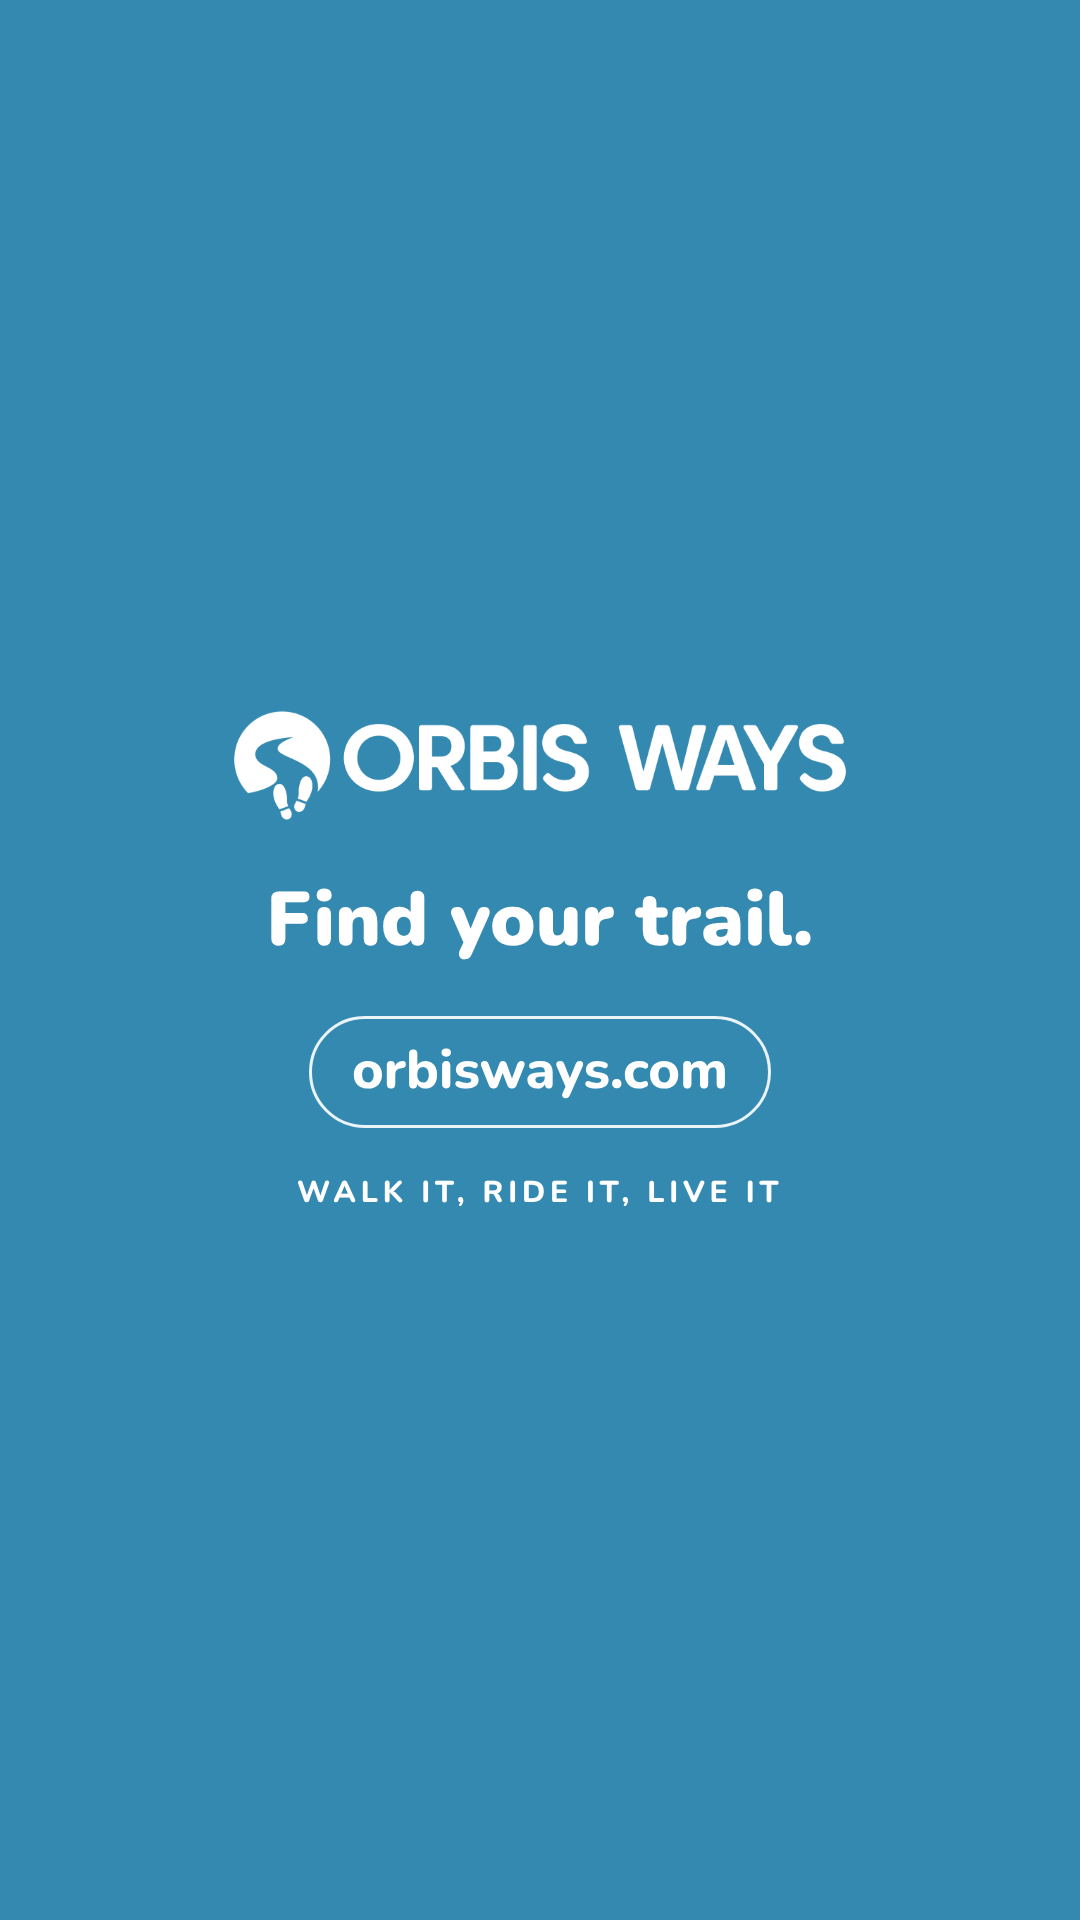
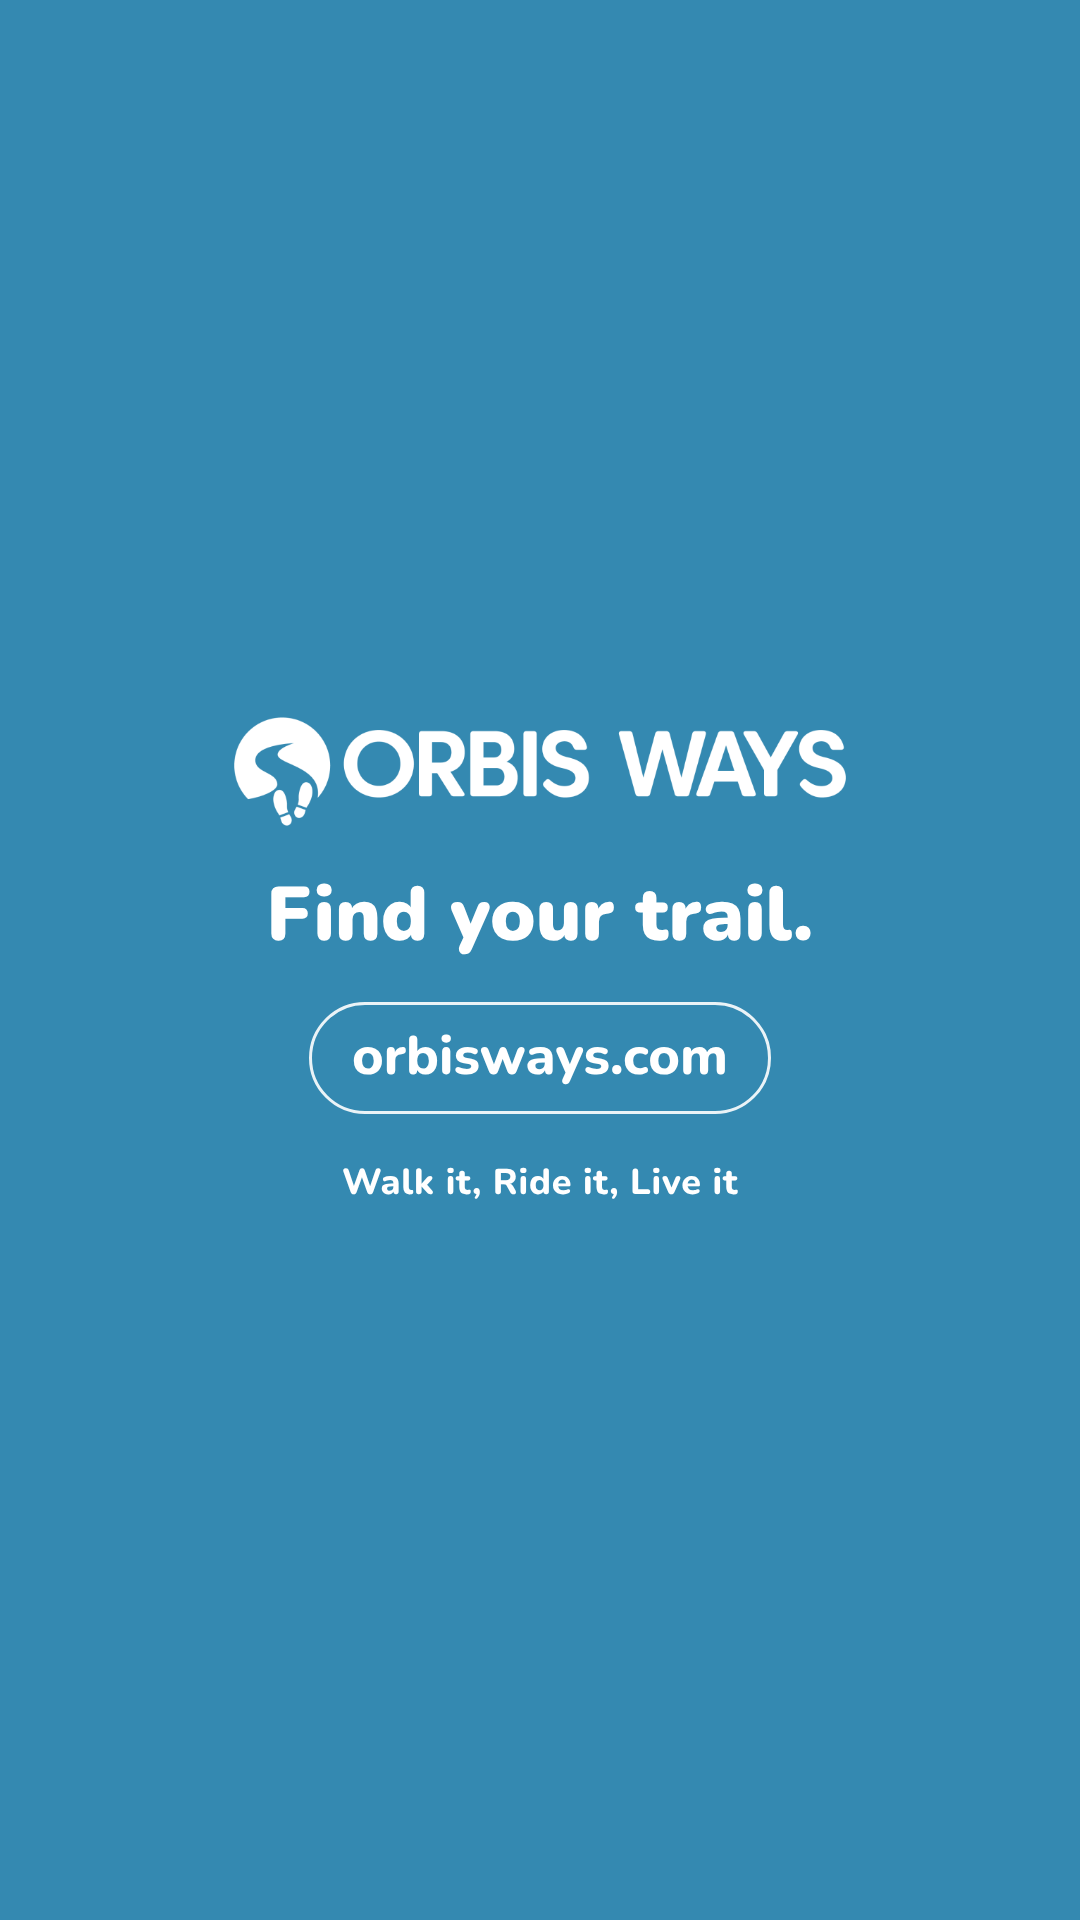
Fábrica de contenidos 24/7 (manual) y eslogan «Walk it, Ride it, Live it» en la cartela de cierre
Claude-Session: https://claude.ai/code/session_0152UrWpfmLuTG9vu2piWTuP

diff --git a/scripts/piezas/endcard.html b/scripts/piezas/endcard.html
@@ -3,9 +3,9 @@
 .end{position:absolute;inset:0;background:rgba(19,118,164,.86);display:flex;flex-direction:column;align-items:center;justify-content:center;gap:44px;color:#fff;text-align:center}
 .end img{width:620px}.claim{font-family:Head;font-weight:900;font-size:76px;max-width:900px;line-height:1.1;text-wrap:balance}
 .web{border:3px solid rgba(255,255,255,.9);border-radius:999px;padding:14px 40px 18px;font-family:Head;font-weight:800;font-size:54px}
-.line{font-family:Head;font-weight:800;font-size:30px;letter-spacing:.16em}</style></head>
+.line{font-family:Head;font-weight:800;font-size:36px;letter-spacing:.02em}</style></head>
 <body><div class="end"><img src="orbisways_logo_white.png" alt=""><div class="claim">Find your trail.</div>
-<div class="web">orbisways.com</div><div class="line">WALK IT, RIDE IT, LIVE IT</div></div>
+<div class="web">orbisways.com</div><div class="line">Walk it, Ride it, Live it</div></div>
 <script>
 // Claim por idioma: render.js still endcard.html … con estados [{"id":"endcard_9x16_es","claim":"Descubre el mundo a tu ritmo."}]
 try { const p = JSON.parse(decodeURIComponent(location.hash.slice(1)) || '{}'); if (p.claim) document.querySelector('.claim').textContent = p.claim; } catch (e) {}

diff --git a/docs/FABRICA.md b/docs/FABRICA.md
@@ -1,0 +1,50 @@
+# Fábrica de contenidos de Orbis Ways (24/7)
+
+Orden de Iván (15 oct 2026): «Quiero que esto sea una fábrica de contenidos que funcione 24/7 sin necesidad de aprobación ni rondas dos veces al día; que vaya trabajando continuamente y yo ya iré dando feedback sobre las piezas finales, pudiendo ajustar o descartar lo que considere». También: «ve generando las propuestas finales sin que te tenga que confirmar… piezas que funcionen, que se hagan virales, algunas más comerciales y otras más puramente informacionales, para convertir nuestros canales en la referencia del sector, ganando comunidad y engagement».
+
+Este documento es el manual de cada ciclo. Manda junto con `docs/PIEZAS_FEEDBACK.md` (reglas del feedback de Iván); si chocan, manda PIEZAS_FEEDBACK.
+
+## Qué cambia respecto a las rondas de antes
+
+- **No hay aprobación previa.** Toda pieza del calendario (salvo `descartada` y `publicada`) se lleva hasta el final: archivos terminados adjuntos en su entrada del calendario, reproducibles y descargables en la sala de Diseño del centro. Iván revisa las piezas finales y pide cambios o las descarta allí.
+- **No hay rondas fijas.** Un ciclo por hora, todos los días. Cada ciclo termina una o dos piezas y deja la cola lista para el siguiente.
+- La ronda «Indicaciones al momento» sigue aparte: aplica en el acto lo que Iván escribe en una pieza.
+
+## Centro de control
+
+- URL: https://claude.ai/artifact/SYE8rodqybJ3uKwcXw2PBX. Se lee y escribe solo con la herramienta ArtifactData (cada llamada con esa `url`). Assets (vídeos, PNG) con la herramienta Artifact (`asset: true`).
+- Calendario: colección `calendar` (esquema completo en el prompt de la ronda de calendario, copia en `centro-control/rondas/calendario.txt` del repo de control). Campos clave: lang, channel, date, time, market, format, title (en español), hook, keyword, seo, why, justification, ready_material, design, version, feedback, files, status.
+- Estado de la fábrica: documento `fabrica/estado` {lastRun, cola, hechasHoy, ultimaPieza, aviso}. Cada ciclo escribe `cycles/<STAMP>-fabrica` {ts, pata: "calendario", findings: 0, actions: 0, entries, updated, summary}.
+
+## Mezcla editorial (para ser la referencia del sector)
+
+Por idioma (EN para UK y EE. UU., ES para España y Latinoamérica, DE para Alemania, Austria y Suiza):
+- **60 % informacional y útil:** guías de etapa, datos verificados, cómo prepararse, qué llevar, cuándo ir, comparativas de rutas, errores típicos, mapas y desniveles. Son las que se guardan y se comparten.
+- **25 % virales y emocionales:** formatos que están funcionando ahora en ese idioma (tendencia con 2+ ejemplos públicos de los últimos 90 días con métricas), POV, «nadie te cuenta», antes y después, retos, preguntas que abren comentarios.
+- **15 % comerciales suaves:** el servicio de Orbis (traslado de equipaje, hoteles con encanto, dossier, asistencia 24/7) contado con hechos, sin urgencias falsas ni «plazas limitadas».
+- Toda pieza nace de una búsqueda real en su idioma y de una tendencia que funcione en su idioma (ver la justificación en el prompt de calendario). Cada pieza busca una acción de comunidad: guardar, compartir o comentar.
+
+## Ciclo (una vez por hora)
+
+0. **Ahorro y avisos.** Si aparece cualquier aviso de uso o de límite, escribe `fabrica/estado.aviso` con el texto y la hora, termina la pieza en curso y para el ciclo. Sin subagentes salvo para investigar tendencias (máximo 3 a la vez). Renders cortos, sin repetir renders.
+1. **Indicaciones primero.** Entradas con `status: "cambios"` y feedback con `done: false`: aplícalas (rehaz archivos si la pieza ya tenía), marca cada indicación con done, doneTs, version y reply, sube version y deja `status: "lista"`.
+2. **Cola.** Entradas de `calendar` desde hoy hasta +14 días, sin `files` y con status distinto de `descartada` o `publicada`. Orden: primero las que Iván aprobó, después por fecha. Si en los próximos 7 días quedan menos de 10 piezas por producir, **planifica** nuevas entradas (con la mezcla editorial, la cadencia por canal e idioma del calendario y justificación completa con búsqueda y tendencia) y déjalas `lista` con su design.
+3. **Producción.** Termina 1 pieza (2 si son estáticas) de principio a fin:
+   - Vídeo 9:16 con material real (versión TikTok sin logo, cierre ni música; versión Reel/Short con cierre `scripts/piezas/endcard_9x16*.png` y música a −14 LUFS) y su portada con texto nativo.
+   - Carrusel 4:5 (máx. 8 láminas) o post: PNG renderizados de su design.
+   - LinkedIn: imagen y texto con estilo de marca.
+   - Blog: borrador completo, brief, metas e imagen destacada.
+   Material: Drive MULTIMEDIA (inventario `media/drive-multimedia`; el conector baja archivos de menos de 6 MB) y `sources_raw/`. Solo material de la ruta de la pieza. Si falta, la pieza queda con `ready_material` y una línea «FALTA: …» y la cola pasa a la siguiente.
+4. **Revisión.** Hoja de fotogramas o láminas, contra la lista de control (búsqueda, tendencia, look nativo, idioma, cifras con fuente, marca y negocio, indicaciones). Corrige antes de entregar.
+5. **Entrega.** Sube los archivos como assets del centro, adjúntalos en `files` de su entrada (con if_version), `version + 1`, `status: "lista"` y `pieceAction: "a-social-AAAAMMDD-fabrica"`. Escribe `PUBLICAR.md` en `piezas/AAAA-MM-DD/<id>/` (descripción, hashtags, comentario fijado, título de Short, texto alternativo y fuentes).
+6. **Registro.** Commit y push de textos y código (no vídeos) a la rama `claude/gifted-babbage-7h92wu`. Actualiza `fabrica/estado` y escribe el ciclo.
+7. **Aprendizaje.** El feedback de Iván en piezas finales se convierte en reglas en `docs/PIEZAS_FEEDBACK.md`.
+
+## Normas fijas
+
+- Modo informativo: nada se publica ni se envía fuera del centro de control y del repo.
+- Nada inventado: toda cifra con su URL en sources; si no se verifica, no sale.
+- Marca: Brandbook OW 2027 V1. Eslogan «Walk it, Ride it, Live it» (nunca todo en mayúsculas). Look nativo en redes (ver PIEZAS_FEEDBACK). Nota real de Trustpilot: 4,5.
+- Gente de 50-65 bien equipada, sin mochilas de trekking grandes. Nunca hoteles, habitaciones ni desayunos de bancos de imágenes. Sin logos ajenos en la imagen.
+- Orbis no contrata cupos por adelantado: nada de «últimas plazas».
+- Campos para el equipo, en español; piezas en el idioma de su público, escritas de forma nativa.

diff --git a/docs/PIEZAS_FEEDBACK.md b/docs/PIEZAS_FEEDBACK.md
@@ -2,6 +2,13 @@
 
 Cada comentario de revisión se convierte aquí en una regla. Antes de montar las piezas del día, léelo entero.
 
+## Fábrica 24/7 (15 oct 2026)
+- Iván: «quiero que esto sea una fábrica de contenidos que funcione 24/7 sin necesidad de aprobación ni rondas dos veces al día». Las piezas se producen hasta el final sin esperar aprobación, un ciclo por hora, y se entregan en la sala de Diseño del centro, donde Iván ajusta o descarta. Manual de cada ciclo: `docs/FABRICA.md`. Lo de «2 piezas antes de las 8:00 y 2 antes de las 17:30» queda sustituido.
+- Mezcla: piezas informacionales y útiles, piezas con formato viral y algunas comerciales suaves, para que los canales sean la referencia del sector y ganen comunidad.
+
+## Eslogan (15 oct 2026)
+- El eslogan se escribe «Walk it, Ride it, Live it», como en el manual de marca V1; nunca todo en mayúsculas. La cartela de cierre (`scripts/piezas/endcard.html` y sus PNG) ya lo lleva así.
+
 ## Formato de la entrega (9 oct 2026)
 - De lunes a viernes llegan al chat de Claude 2 piezas antes de las 8:00 y otras 2 antes de las 17:30 (Madrid) (ampliado el 14 oct), una por canal: vídeo 9:16 (TikTok y Reel/Short), carrusel de Instagram/Facebook 4:5 y post de LinkedIn. Se pueden alternar con portadas o miniaturas de YouTube.
 - Piezas más trabajadas y nativas de cada red: cortes secos con empuje lento, texto animado palabra a palabra, gancho legible desde el fotograma 0, pregunta final solo en pantalla.
